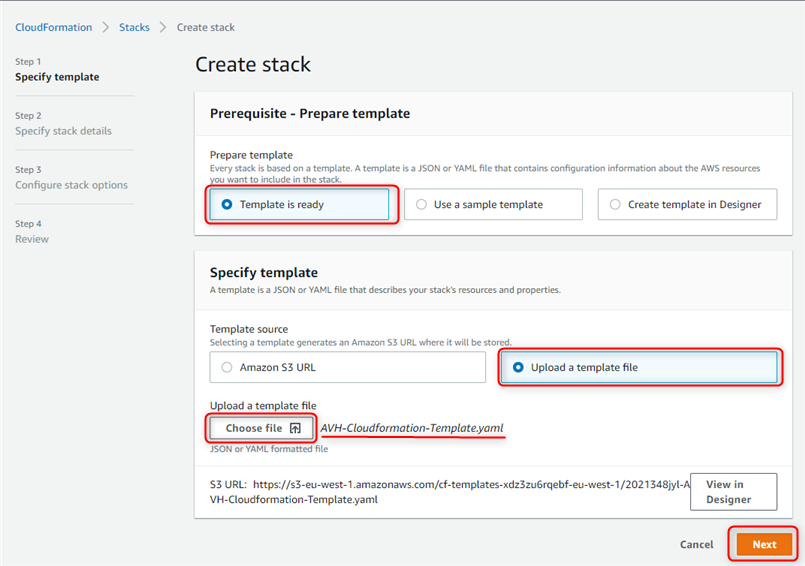
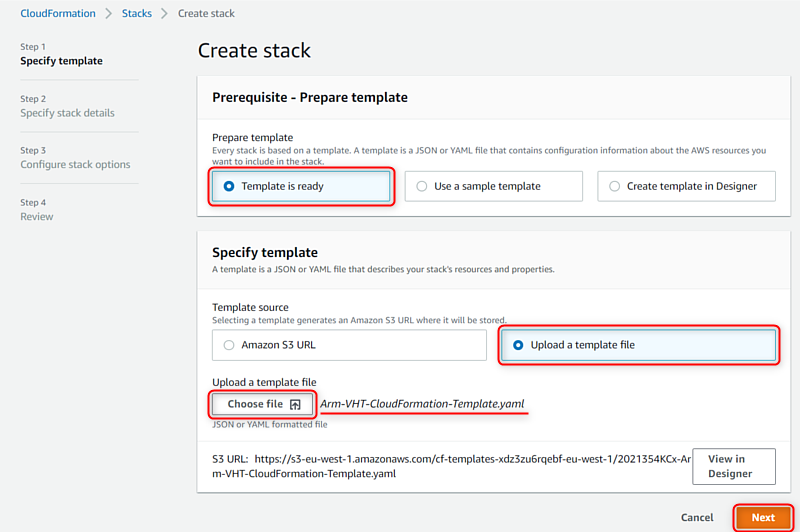
More changes from AVH to VHT.

diff --git a/README.md b/README.md
@@ -1,53 +1,51 @@
-# VHT-AWS-Infra-CloudFormation
-VHT CloudFormation for VHT-AMI GitHub Action
+# Arm Virtual Hardware AWS-CloudFormation
 
-This template creates the basic AWS infrastructure items required for using an Arm Virtual Hardware (VHT) Amazon Machine Image (AMI) with a [GitHub-hosted Runner](https://arm-software.github.io/VHT/main/infrastructure/html/run_ami_github.html#GitHub_hosted).
+The following section describes how to setup the AWS infrastructure for using the [Arm Virtual Hardware Amazon Machine Image (AMI)](https://arm-software.github.io/VHT/main/infrastructure/html/index.html#AWS).
+Using a template file creates the setup that is for example required to run **Arm Virtual Hardware**  with a [**GitHub-hosted Runner**](https://arm-software.github.io/VHT/main/infrastructure/html/run_ami_github.html#GitHub_hosted).
 
 ## Prerequisites
-* AWS account
-* Subscription to [VHT AMI](https://arm-software.github.io/VHT/main/infrastructure/html/index.html#Subscribe)
+* Use your [**AWS account**](https://aws.amazon.com/premiumsupport/knowledge-center/create-and-activate-aws-account/)
+* Subscribe  [**Arm Virtual Hardware**](https://arm-software.github.io/VHT/main/infrastructure/html/index.html#Subscribe)
 
-## What it creates
+## What is Created
+The `Arm-VHT-CloudFormation-Template.yaml` is a [AWS CloudFormation](https://docs.aws.amazon.com/cloudformation/index.html) template that creates the following AWS infrastructure items:
 * One S3 Bucket (to store temporary files)
 * One EC2 Security Group (to be associated with the EC2 instances)
 * One IAM User and Access Keys (to limit access rights in the AWS)
 * One IAM Role (to be associated with the EC2 Instances)
 
-## CloudFormation inputs
-* S3 Bucket Name
-* VPC ID to be associated with the EC2 Security Group
+### Required User Input
+* _S3BucketName_ that identifies the S3 Bucket.
+* _VpcId_ to be associated with the EC2 Security Group.
 
-## CloudFormation outputs
-* Access Key ID
-* Secret Access Key
-
-The Access Key Id and corresponding Secret Access Key enable remote access for the AWS IAM User that gets created with this CloudFormation template.
+### Provided Output
+Resources to be used with Arm VHT AMI.
 
 ## How to run it for the first time
-1. Sign in with your AWS account on [aws.amazon.com](https://aws.amazon.com/) to land on AWS Management Console page.
+1. Download the file [`Arm-VHT-CloudFormation-Template.yaml`](./Arm-VHT-CloudFormation-Template.yaml) to your computer.
 
-2. Download [VHT-Cloudformation-Template.yaml](./VHT-Cloudformation-Template.yaml) file to your computer.
+2. Sign in with your AWS account on [aws.amazon.com](https://aws.amazon.com/) to open the AWS Management Console page.
 
 3. Type `Cloudformation` in the search and proceed to the corresponding AWS service page.
 
 4. Click the _Create stack_ button.
 
-<img src=".images/VHT_cloudformation_main.png">
+<img src=".images/vht_cloudformation_main.png">
 
 5. Select _Template is ready_ option, and then _Upload a template file_.
 
-6. With the _Choose file_ button select the `VHT-Cloudformation-Template.yaml` file in your local computer.
+6. With the _Choose file_ button select the file `Arm-VHT-CloudFormation-Template.yaml` downloaded in step 1.
 
 7. Click _Next_.
 
-<img src=".images/VHT_cloudformation_create_stack.png">
+<img src=".images/vht_cloudformation_create_stack.png">
 
 8. Specify stack details as follows:
-    - _Stack name_: use any name, for example `VHT-Stack`.
+    - _Stack name_: use any name, for example `Arm-VHT-Stack`.
     - _S3BucketName_: shall have only small letters and numbers and be unique across AWS, as otherwise stack creation will fail later.
     - _Vpcid_: provide VPC ID for your target region. This can be found in VPC AWS service.
 
-<img src=".images/VHT_cloudformation_stack_details.png">
+<img src=".images/vht_cloudformation_stack_details.png">
 
 9. On _Configure stack options_ page keep default values and press _Next_.
 
@@ -55,19 +53,19 @@ The Access Key Id and corresponding Secret Access Key enable remote access for t
     - Acknowledge that a new AWS IAM User and AWS IAM AccessKey will be created.
     - Press _Create stack_.
 
-<img src=".images/VHT_cloudformation_ack.png">
+<img src=".images/vht_cloudformation_ack.png">
 
 11. The infrastructure described in the template file will be provisioned. In _Events_ tab you can follow the creation process. Use _refresh_ button if the page does not get updated automatically. After a few minutes the stack creation should be successfully completed.
 
-<img src=".images/VHT_cloudformation_stack_completed.png">
+<img src=".images/vht_cloudformation_stack_completed.png">
 
-13. Go to the created stack and in the _Output_ tab, find the values for the parameters needed for using an VHT AMI:
+13. Go to the created stack and in the _Output_ tab, find the values for the parameters needed for using an Arm Virtual Hardware AMI:
     - `VHTBucketName`: the name of created S3 bucket. It is same as provided in step 8.
     - `VHTEC2SecurityGroup`: the name of created EC2 security group.
     - `VHTInstanceRole`: the name of created IAM Instance Profile.
     - `VHTUserAccessKeyId`: the key id to access AWS as the IAM User provisioned in the stack.
     - `VHTUserSecretAccessKey`: the secret key to access AWS with the `VHTUserAccessKeyId`. See [access key pair](https://docs.aws.amazon.com/IAM/latest/UserGuide/id_credentials_access-keys.html) for details.
 
-<img src=".images/VHT_cloudformation_output.png">
+<img src=".images/vht_cloudformation_output.png">
 
 Note that when the cloud stack is not needed anymore CloudFormation service can be also used to easily delete the stack including all the provisioned resources. In this case it need to be ensured that the EC2 instance associated with the created EC2 Security Group is terminated before stack delete is started.
